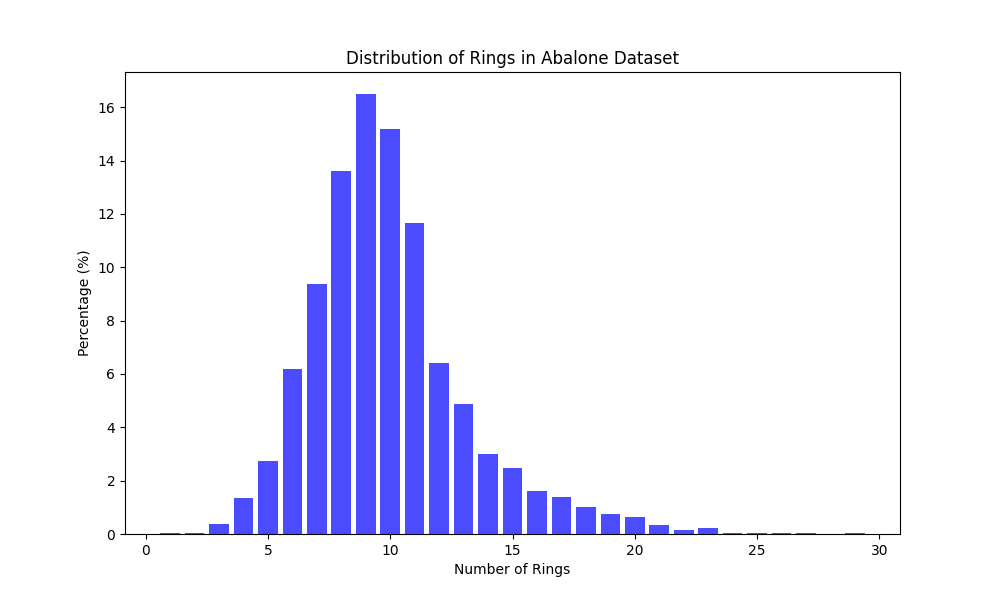
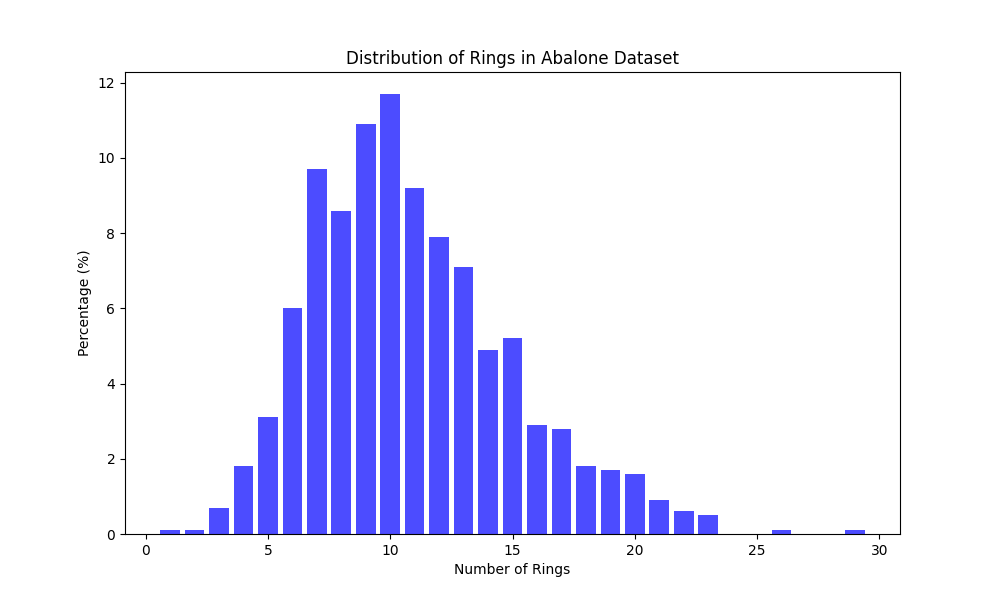
Added model.py to train the model and save the results

diff --git a/model.py b/model.py
@@ -1,0 +1,42 @@
+import pandas
+from sklearn.model_selection import train_test_split
+from sklearn.ensemble import RandomForestRegressor
+from sklearn.metrics import mean_absolute_error
+
+
+# loading the Dataset
+abalone_attributes = pandas.read_excel('./Data/abalone_attributes_cleaned.xlsx')
+abalone_targets = pandas.read_excel('./Data/abalone_targets_cleaned.xlsx')
+
+# Select the data for the test and train sets
+attributes = abalone_attributes.drop(columns='Unnamed: 0', axis=1)
+targets = abalone_targets['Rings']
+
+# Split the data into train and test sets
+attributes_train, attributes_test, targets_train, targets_test = train_test_split(
+    attributes, targets, test_size=200, random_state=33
+)
+
+# Chose an appropriate Model
+model = RandomForestRegressor(random_state=33)
+
+# Train the Model
+model.fit(attributes_train, targets_train)
+
+# Generate Predictions
+predictions = model.predict(attributes_test)
+
+# Check the predictions
+results = pandas.DataFrame({'Prediction': predictions, 'Actual Value': targets_test})
+print(results)
+
+# Calculate average deviation in rings and percent
+deviation = mean_absolute_error(targets_test, predictions)
+deviation_p = deviation / 29 * 100
+
+# Check deviation
+print("Deviation in rings: ", deviation)
+print("Deviation in percentage: ", deviation_p)
+
+# Save the Results
+results.to_excel('./Data/abalone_results.xlsx', index=False)

diff --git a/data_statistics.py b/data_statistics.py
@@ -1,9 +1,9 @@
 import pandas
 import matplotlib.pyplot as plt
 
-# Loading Datasets
-abalone_attributes = pandas.read_excel('./Data/abalone_attributes.xlsx')
-abalone_targets = pandas.read_excel('./Data/abalone_targets.xlsx')
+# Loading the Datasets
+abalone_attributes = pandas.read_excel('./Data/abalone_attributes_cleaned.xlsx')
+abalone_targets = pandas.read_excel('./Data/abalone_targets_cleaned.xlsx')
 
 # Statistic Information on each attribute
 statistics_attributes = abalone_attributes.describe()
